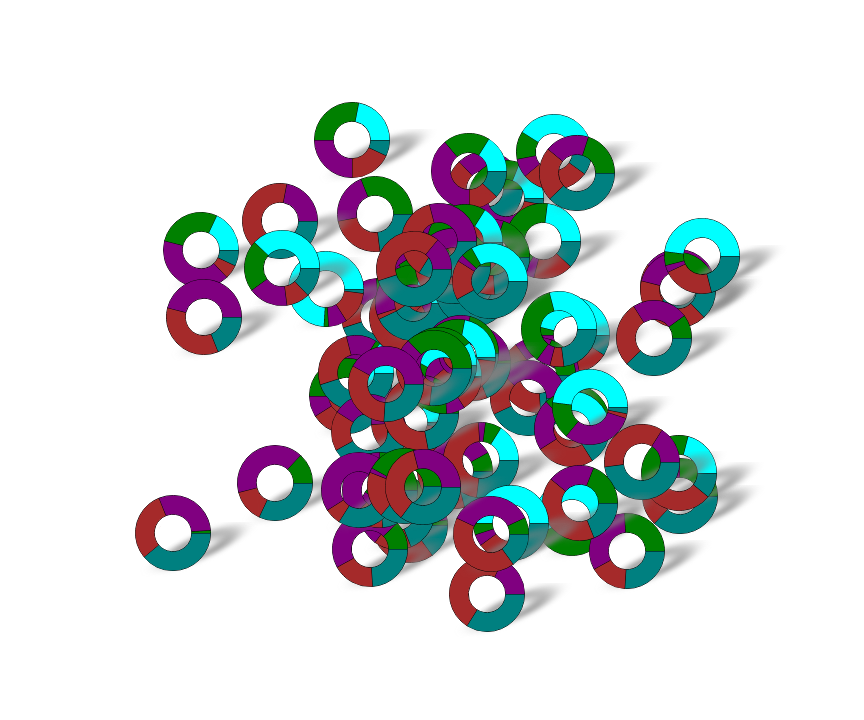
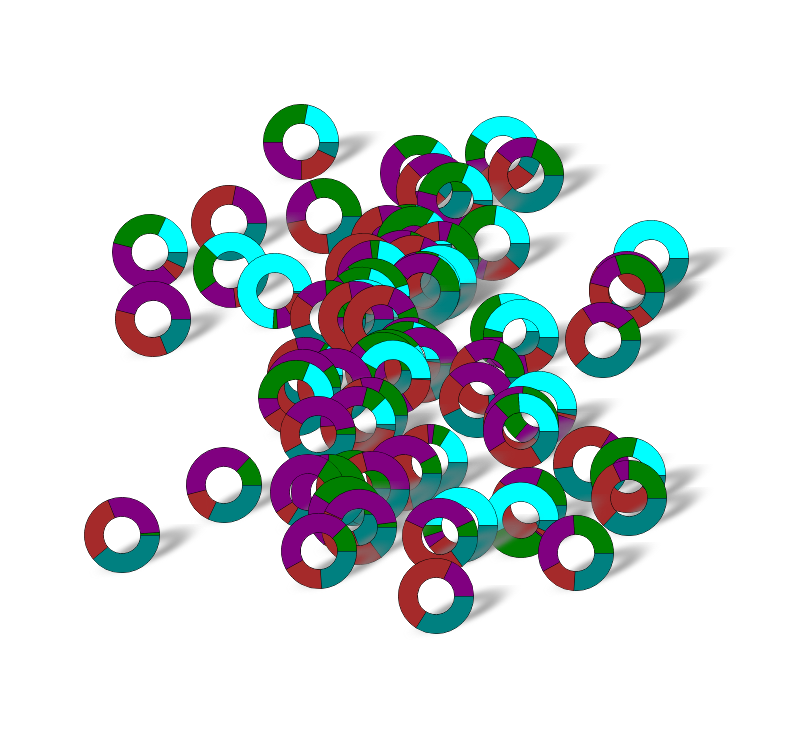
y-ordering

Changed region(s): [[0.0907, 0.1222, 0.9068, 0.8861]]

diff --git a/README.md b/README.md
@@ -48,6 +48,8 @@ concat('http://localhost:3000/marker/tree/', "count")
 
 Make sure you also set the width and height of the image, in the examples all 150w, 100h and set the unit to pixels.
 
+And to make the shadows look nice, you should order the markers by `y($geometry)` DESC.
+
 The `qgis` folder holds an example project with the dataset.
 
 ## Preview 
